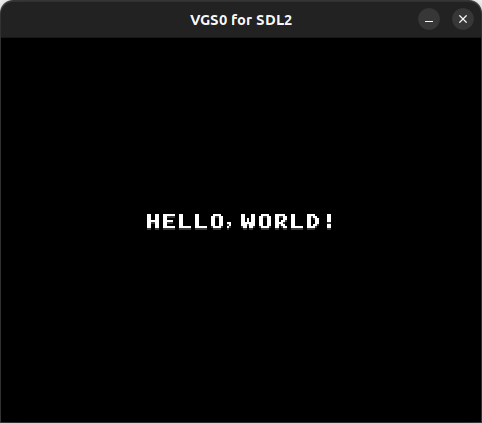
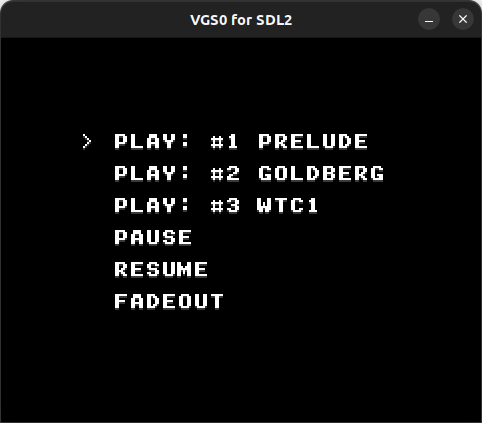
make bgm example

diff --git a/example/03_bgm/program.c b/example/03_bgm/program.c
@@ -11,23 +11,80 @@ void main(void)
     // Bank 2 を Character Pattern Table ($A000) に転送 (DMA)
     vgs0_dma(2);
 
-    // 画面中央付近 (10,12) に "HELLO,WORLD!" を描画
-    vgs0_bg_putstr(10, 12, 0x80, "HELLO,WORLD!");
+    // メニューを表示
+    vgs0_bg_putstr(8, 7, 0x80, "PLAY: #1 PRELUDE");
+    vgs0_bg_putstr(8, 9, 0x80, "PLAY: #2 GOLDBERG");
+    vgs0_bg_putstr(8, 11, 0x80, "PLAY: #3 WTC1");
+    vgs0_bg_putstr(8, 13, 0x80, "PAUSE");
+    vgs0_bg_putstr(8, 15, 0x80, "RESUME");
+    vgs0_bg_putstr(8, 17, 0x80, "FADEOUT");
+    VGS0_ADDR_BG->ptn[7][6] = '>';
 
-    vgs0_bgm_play(0);
+    // ボタン入力制御変数を準備
+    uint8_t pushing = 0;
+    uint8_t push = 0;
+
+    // カーソル移動制御変数を準備
+    uint8_t moving = 0;
+    int8_t move = 0;
+    uint8_t cursor = 7;
 
     while (1) {
         vgs0_wait_vsync();
         uint8_t pad = vgs0_joypad_get();
-        if (pad & VGS0_JOYPAD_LE) {
-            *VGS0_ADDR_BG_SCROLL_X += 1;
-        } else if (pad & VGS0_JOYPAD_RI) {
-            *VGS0_ADDR_BG_SCROLL_X -= 1;
-        }
+
+        // カーソル入力チェック
         if (pad & VGS0_JOYPAD_UP) {
-            *VGS0_ADDR_BG_SCROLL_Y += 1;
+            if (!moving) {
+                move = -2;
+                moving = 1;
+            }
         } else if (pad & VGS0_JOYPAD_DW) {
-            *VGS0_ADDR_BG_SCROLL_Y -= 1;
+            if (!moving) {
+                move = 2;
+                moving = 1;
+            }
+        } else {
+            moving = 0;
+        }
+
+        // カーソル移動
+        if (move) {
+            VGS0_ADDR_BG->ptn[cursor][6] = ' ';
+            cursor += move;
+            if (cursor < 7) {
+                cursor = 17;
+            } else if (17 < cursor) {
+                cursor = 7;
+            }
+            VGS0_ADDR_BG->ptn[cursor][6] = '>';
+            move = 0;
+        }
+
+        // ボタン入力チェック
+        if ((pad & VGS0_JOYPAD_T1) || (pad & VGS0_JOYPAD_T2)) {
+            if (!pushing) {
+                push = 1;
+                pushing = 1;
+            }
+        } else {
+            if (pushing) {
+                pushing = 0;
+            } else {
+                push = 0;
+            }
+        }
+
+        // Aボタンを押して離した瞬間にカーソル位置のコマンドを実行
+        if (!pushing && push) {
+            switch (cursor) {
+                case 7: vgs0_bgm_play(0); break;
+                case 9: vgs0_bgm_play(1); break;
+                case 11: vgs0_bgm_play(2); break;
+                case 13: vgs0_bgm_pause(); break;
+                case 15: vgs0_bgm_resume(); break;
+                case 17: vgs0_bgm_fadeout(); break;
+            }
         }
     }
 }

diff --git a/example/03_bgm/README.md b/example/03_bgm/README.md
@@ -1,7 +1,7 @@
-# Hello, World
+# BGM
 
-- 画面に `Hello, World!` を表示します
-- ジョイパッドでハードウェアスクロール機能を用いて8方向に動かすことができます
+- BGM を再生・ポーズ・再開・フェードアウト
+- ジョイパッドで操作と曲を選択します
 
 ![preview](preview.png)
 
@@ -20,7 +20,7 @@
 
 ```zsh
 git clone https://github.com/suzukiplan/vgszero
-cd vgszero/example/01_hello
+cd vgszero/example/03_bgm
 make
 ```
 
@@ -33,6 +33,12 @@ make
 - Bank 0: program
 - Bank 1: program
 - Bank 2: font.chr
+
+## BGM structure
+
+- BGM 0: [./song1.mml](./song1.mml)
+- BGM 1: [./song2.mml](./song2.mml)
+- BGM 2: [./song3.mml](./song3.mml)
 
 ## Program Code
 
@@ -50,21 +56,80 @@ void main(void)
     // Bank 2 を Character Pattern Table ($A000) に転送 (DMA)
     vgs0_dma(2);
 
-    // 画面中央付近 (10,12) に "HELLO,WORLD!" を描画
-    vgs0_bg_putstr(10, 12, 0x80, "HELLO,WORLD!");
+    // メニューを表示
+    vgs0_bg_putstr(8, 7, 0x80, "PLAY: #1 PRELUDE");
+    vgs0_bg_putstr(8, 9, 0x80, "PLAY: #2 GOLDBERG");
+    vgs0_bg_putstr(8, 11, 0x80, "PLAY: #3 WTC1");
+    vgs0_bg_putstr(8, 13, 0x80, "PAUSE");
+    vgs0_bg_putstr(8, 15, 0x80, "RESUME");
+    vgs0_bg_putstr(8, 17, 0x80, "FADEOUT");
+    VGS0_ADDR_BG->ptn[7][6] = '>';
+
+    // ボタン入力制御変数を準備
+    uint8_t pushing = 0;
+    uint8_t push = 0;
+
+    // カーソル移動制御変数を準備
+    uint8_t moving = 0;
+    int8_t move = 0;
+    uint8_t cursor = 7;
 
     while (1) {
         vgs0_wait_vsync();
         uint8_t pad = vgs0_joypad_get();
-        if (pad & VGS0_JOYPAD_LE) {
-            *VGS0_ADDR_BG_SCROLL_X += 1;
-        } else if (pad & VGS0_JOYPAD_RI) {
-            *VGS0_ADDR_BG_SCROLL_X -= 1;
-        }
+
+        // カーソル入力チェック
         if (pad & VGS0_JOYPAD_UP) {
-            *VGS0_ADDR_BG_SCROLL_Y += 1;
+            if (!moving) {
+                move = -2;
+                moving = 1;
+            }
         } else if (pad & VGS0_JOYPAD_DW) {
-            *VGS0_ADDR_BG_SCROLL_Y -= 1;
+            if (!moving) {
+                move = 2;
+                moving = 1;
+            }
+        } else {
+            moving = 0;
+        }
+
+        // カーソル移動
+        if (move) {
+            VGS0_ADDR_BG->ptn[cursor][6] = ' ';
+            cursor += move;
+            if (cursor < 7) {
+                cursor = 17;
+            } else if (17 < cursor) {
+                cursor = 7;
+            }
+            VGS0_ADDR_BG->ptn[cursor][6] = '>';
+            move = 0;
+        }
+
+        // ボタン入力チェック
+        if ((pad & VGS0_JOYPAD_T1) || (pad & VGS0_JOYPAD_T2)) {
+            if (!pushing) {
+                push = 1;
+                pushing = 1;
+            }
+        } else {
+            if (pushing) {
+                pushing = 0;
+            } else {
+                push = 0;
+            }
+        }
+
+        // Aボタンを押して離した瞬間にカーソル位置のコマンドを実行
+        if (!pushing && push) {
+            switch (cursor) {
+                case 7: vgs0_bgm_play(0); break;
+                case 9: vgs0_bgm_play(1); break;
+                case 11: vgs0_bgm_play(2); break;
+                case 13: vgs0_bgm_pause(); break;
+                case 15: vgs0_bgm_resume(); break;
+                case 17: vgs0_bgm_fadeout(); break;
+            }
         }
     }
 }
